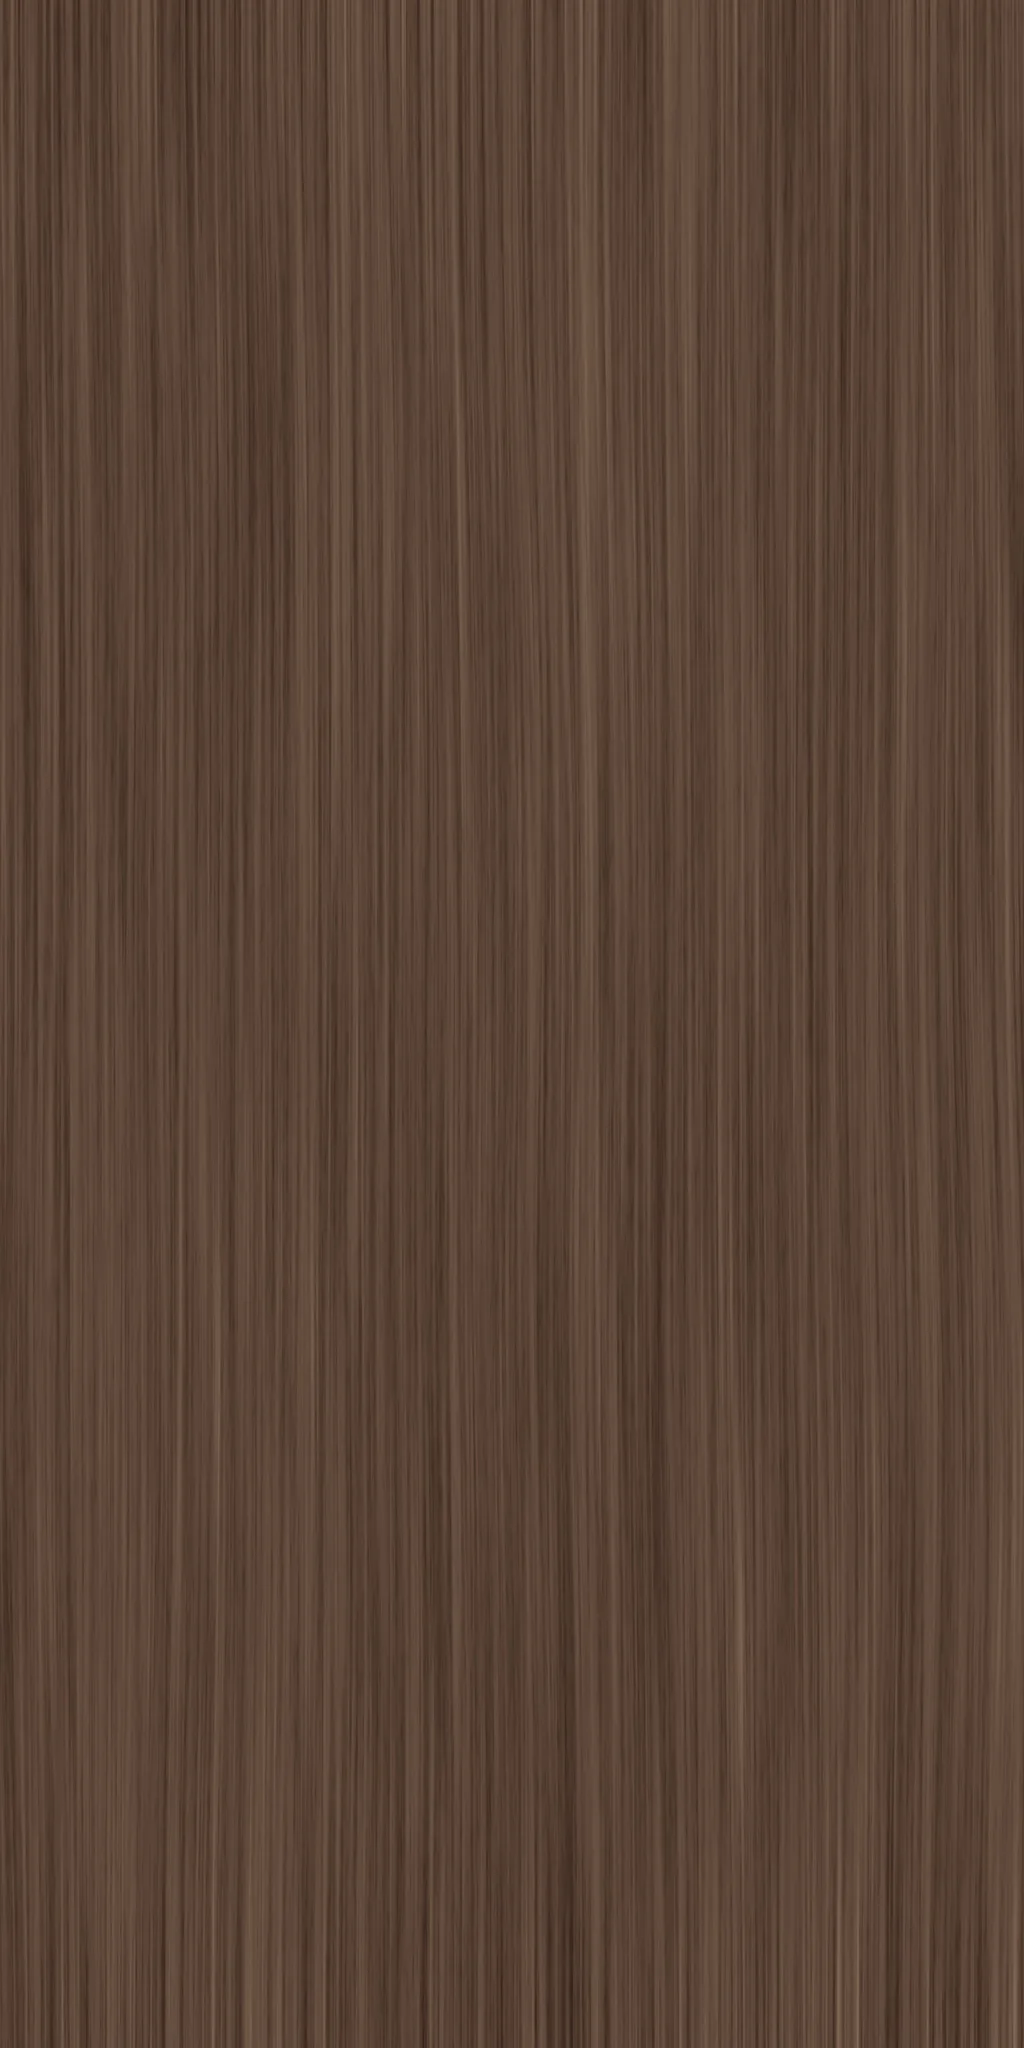
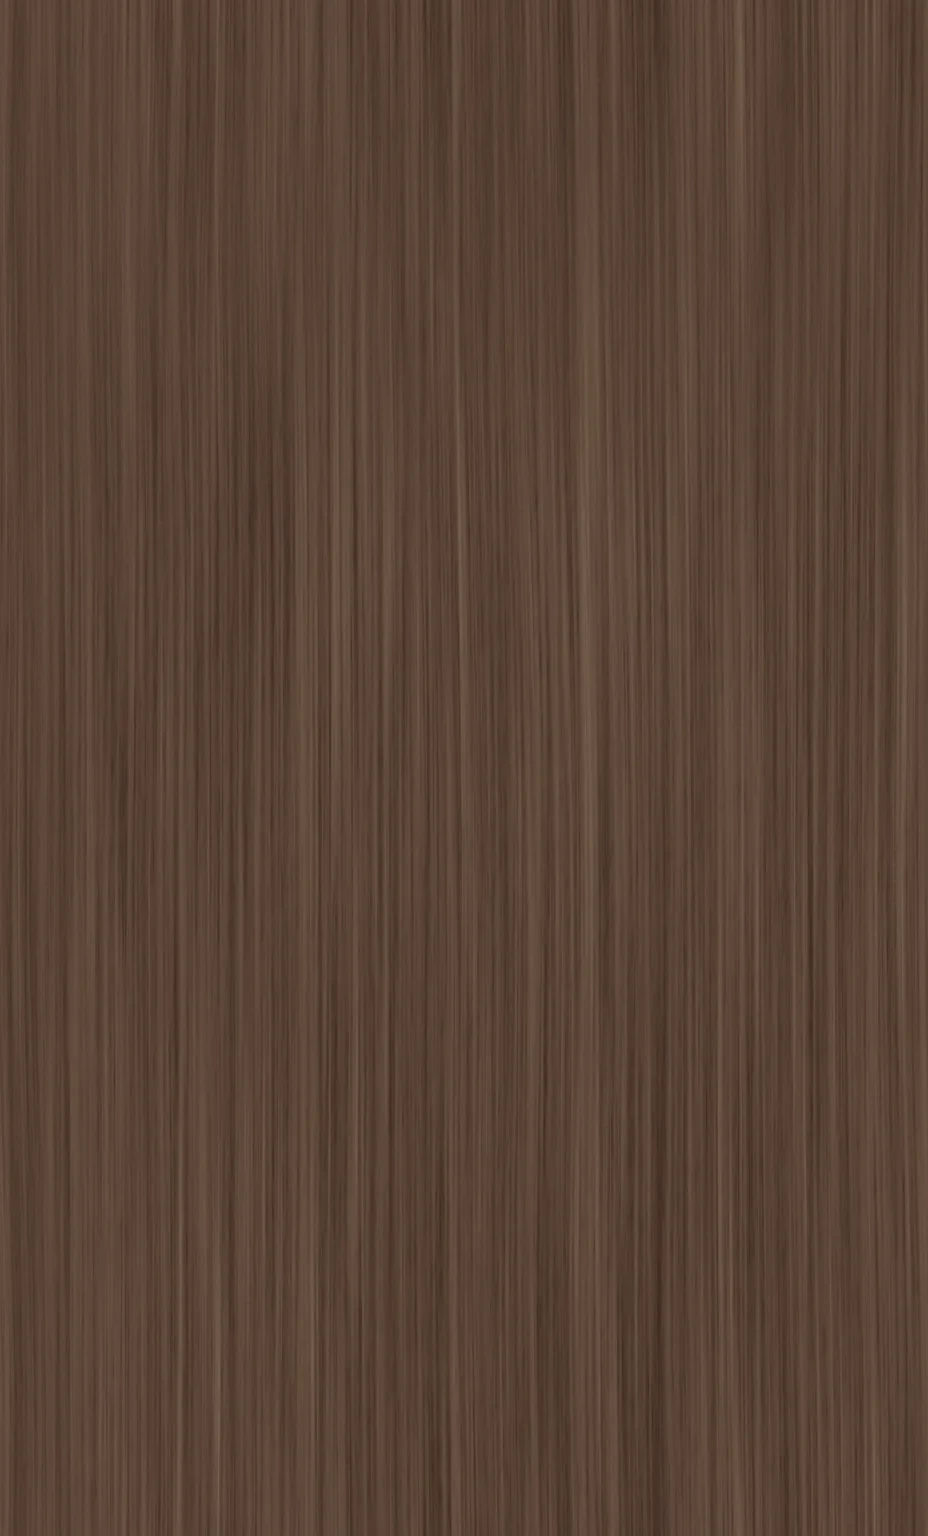
261120-naeson: 무늬목 질감 이음 없앰 (WD01~04)
Claude-Session: https://claude.ai/code/session_01WrBd4dCZJXJwsERFLVBU4F

diff --git a/261120-naeson/index.html b/261120-naeson/index.html
@@ -189,9 +189,9 @@ COLORS.white=COLORS.PT09;COLORS.oak=COLORS.WD01;
 const PARTS=[{k:'WoodSet',name:'상부장 · 아일랜드',sub:'',pick:WD.map(w=>'WD'+w[0]),cls:'wd'},{k:'Tall',name:'키큰장 · 하부장',sub:'',pick:PT.map(p=>'PT'+p[0]),cls:'pt'}];
 const ALTS=[
   {key:1,label:'배색',cols:['white','oak','cer'],parts:{WallFront:'PT09',WoodSet:'WD01',Tall:'PT09'},renders:[
-    {key:"main",src:"assets/option1/main.webp?v=1124b",thumb:"assets/option1/main_t.webp?v=1124b",label:"01 본주방",desc:"거실 쪽에서 본 주방. 화이트 세라믹 상판, 아일랜드 우드 서랍 3열, 뒤로 싱크 줄과 우드 상부장, 왼쪽 STS 후드, 오른쪽 키큰장과 냉장고"},
-    {key:"tall",src:"assets/option1/tall.webp?v=1124b",thumb:"assets/option1/tall_t.webp?v=1124b",label:"02 키큰장",desc:"화이트 4도어 냉장고와 김치냉장고, 손잡이 없는 수납 키큰장 두 덩이, 앞쪽 아일랜드"},
-    {key:"inner",src:"assets/option1/inner.webp?v=1124b",thumb:"assets/option1/inner_t.webp?v=1124b",label:"03 ㄷ자 안쪽",desc:"통로에서 본 ㄷ자 안쪽. 화이트 세라믹 상판 위 인덕션과 STS 후드, 싱크, 우드 상부장 아래 오픈 칸"}
+    {key:"main",src:"assets/option1/main.webp?v=1124c",thumb:"assets/option1/main_t.webp?v=1124c",label:"01 본주방",desc:"거실 쪽에서 본 주방. 화이트 세라믹 상판, 아일랜드 우드 서랍 3열, 뒤로 싱크 줄과 우드 상부장, 왼쪽 STS 후드, 오른쪽 키큰장과 냉장고"},
+    {key:"tall",src:"assets/option1/tall.webp?v=1124c",thumb:"assets/option1/tall_t.webp?v=1124c",label:"02 키큰장",desc:"화이트 4도어 냉장고와 김치냉장고, 손잡이 없는 수납 키큰장 두 덩이, 앞쪽 아일랜드"},
+    {key:"inner",src:"assets/option1/inner.webp?v=1124c",thumb:"assets/option1/inner_t.webp?v=1124c",label:"03 ㄷ자 안쪽",desc:"통로에서 본 ㄷ자 안쪽. 화이트 세라믹 상판 위 인덕션과 STS 후드, 싱크, 우드 상부장 아래 오픈 칸"}
   ]}
 ];
 const ZIP="assets/261120_naeson_renders.zip";
@@ -266,7 +266,7 @@ function setFov(){const p=PRESET[curCam];if(!p||!camera)return;const v=2*Math.at
 function goCam(k){const p=PRESET[k];curCam=k;camera.position.copy(toV(...p.pos));controls.target.copy(toV(...p.tgt));setFov();controls.update();
   HIDE.forEach(([o,hs])=>{o.visible=!hs.includes(k)});[...$('views').children].forEach(b=>b.classList.toggle('on',b.dataset.c===k));curCam=k}
 let chosen={};const TEX={};
-function woodTex(c){if(TEX[c])return TEX[c];const t=new THREE.TextureLoader().load(COLORS[c].tex+'?v=1124b');t.wrapS=t.wrapT=THREE.RepeatWrapping;t.repeat.set(1/0.7,1/1.4);t.colorSpace=THREE.SRGBColorSpace;t.anisotropy=renderer?renderer.capabilities.getMaxAnisotropy():8;return TEX[c]=t}
+function woodTex(c){if(TEX[c])return TEX[c];const t=new THREE.TextureLoader().load(COLORS[c].tex+'?v=1124c');t.wrapS=t.wrapT=THREE.RepeatWrapping;t.repeat.set(1/0.6344,1/1.05)/* 이음 없앤 무늬목 928×1536px = 634×1050mm */;t.colorSpace=THREE.SRGBColorSpace;t.anisotropy=renderer?renderer.capabilities.getMaxAnisotropy():8;return TEX[c]=t}
 function paint(k,c){const m=M[k];if(!m||!COLORS[c]||!THREE)return;
   if(COLORS[c].tex){const t=woodTex(c);m.map=t;m.bumpMap=t;m.bumpScale=.6;m.color.set('#dcdcdc');m.roughness=.58;m.clearcoat=.15;m.clearcoatRoughness=.45}
   else{m.map=null;m.bumpMap=null;m.color.set(COLORS[c].gl);m.roughness=.6;m.clearcoat=.08;m.clearcoatRoughness=.6}
@@ -332,7 +332,7 @@ async function initGL(){
   scene.add(new THREE.HemisphereLight(0xffffff,0xd8d2c6,.25));
   const fill=new THREE.DirectionalLight(0xf2f5ff,.35);fill.position.set(4,3,-5);scene.add(fill);
   const floorTex=oakFloor();
-  let data;try{data=await (await fetch('model.json?v=1124b')).json()}catch(e){$('loading').textContent='3D 데이터를 불러오지 못했어요.';return}
+  let data;try{data=await (await fetch('model.json?v=1124c')).json()}catch(e){$('loading').textContent='3D 데이터를 불러오지 못했어요.';return}
   ctxGroup=new THREE.Group();ctxGroup.visible=false;const main=new THREE.Group();scene.add(ctxGroup,main);
   const edgeMat=new THREE.LineBasicMaterial({color:'#8f8a80',transparent:true,opacity:.22,depthWrite:false});
   const base={side:THREE.DoubleSide,polygonOffset:true,polygonOffsetFactor:1,polygonOffsetUnits:1};
